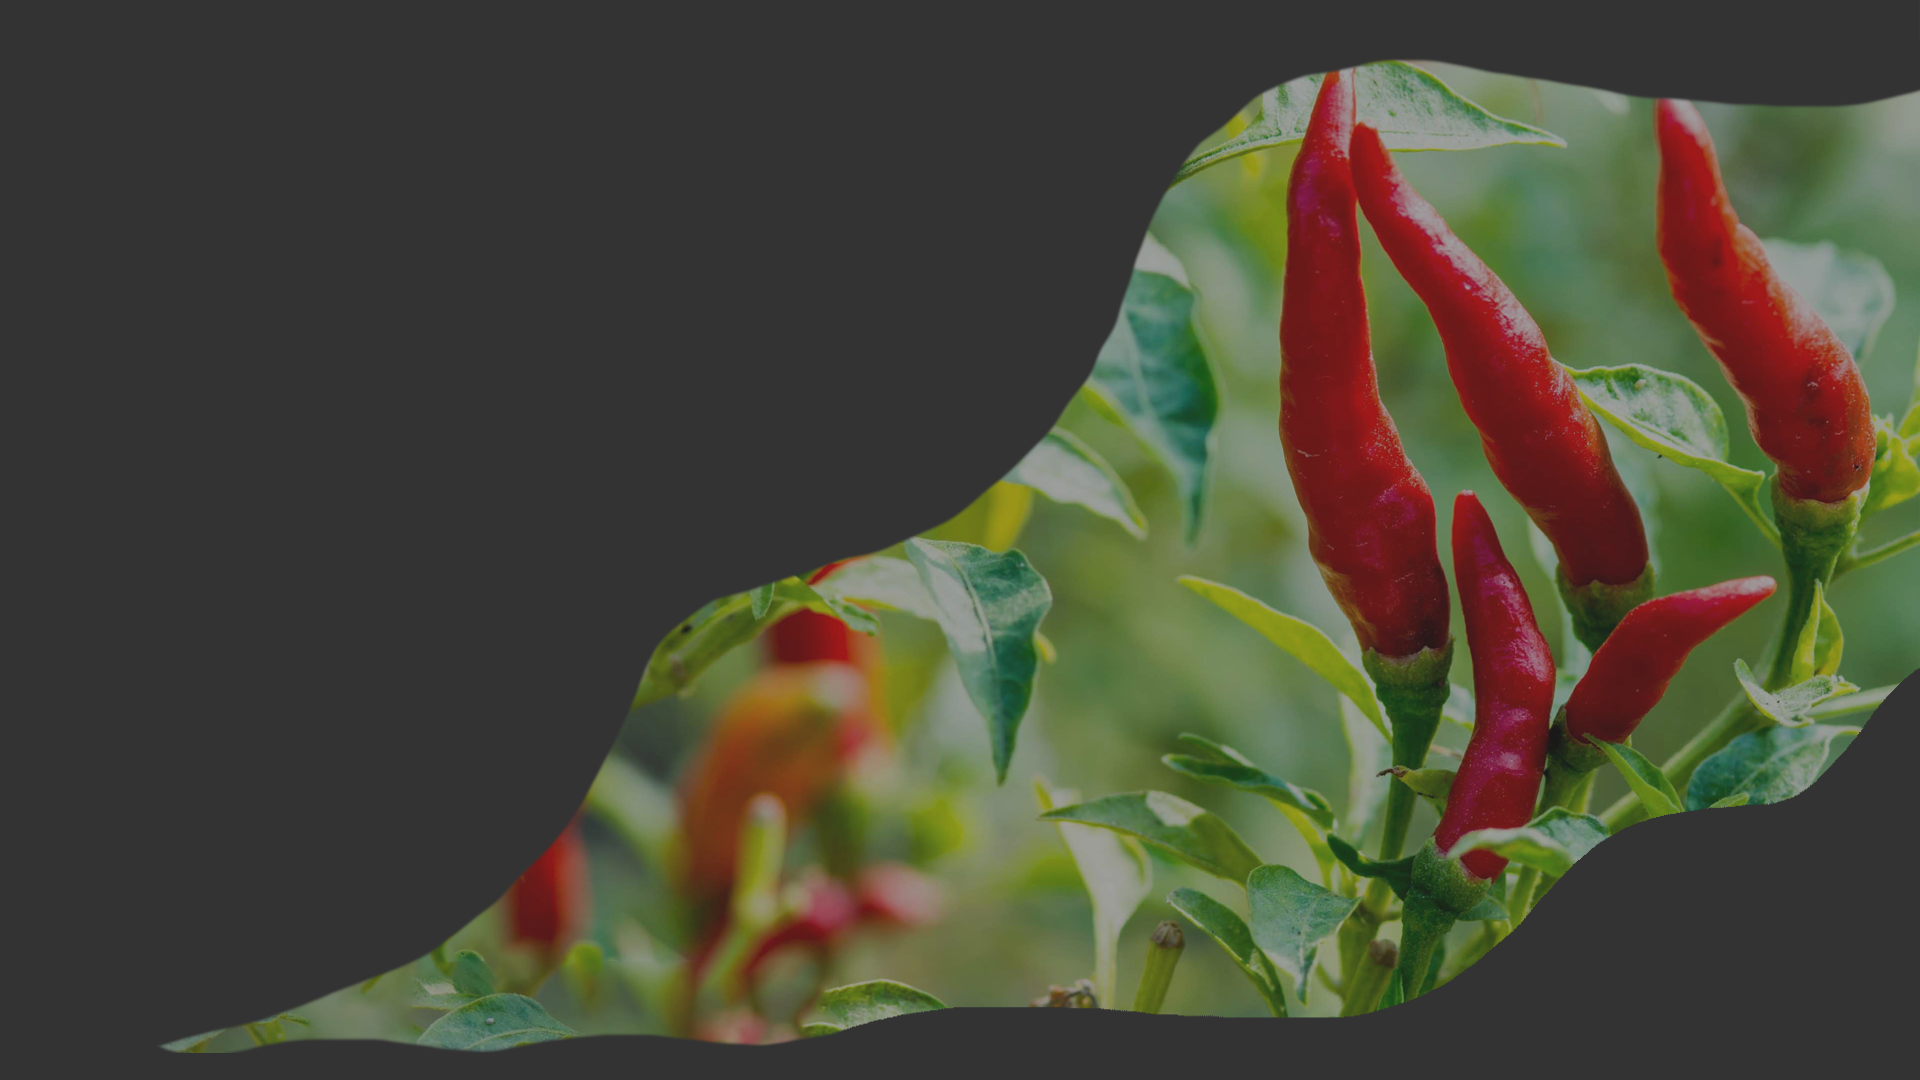
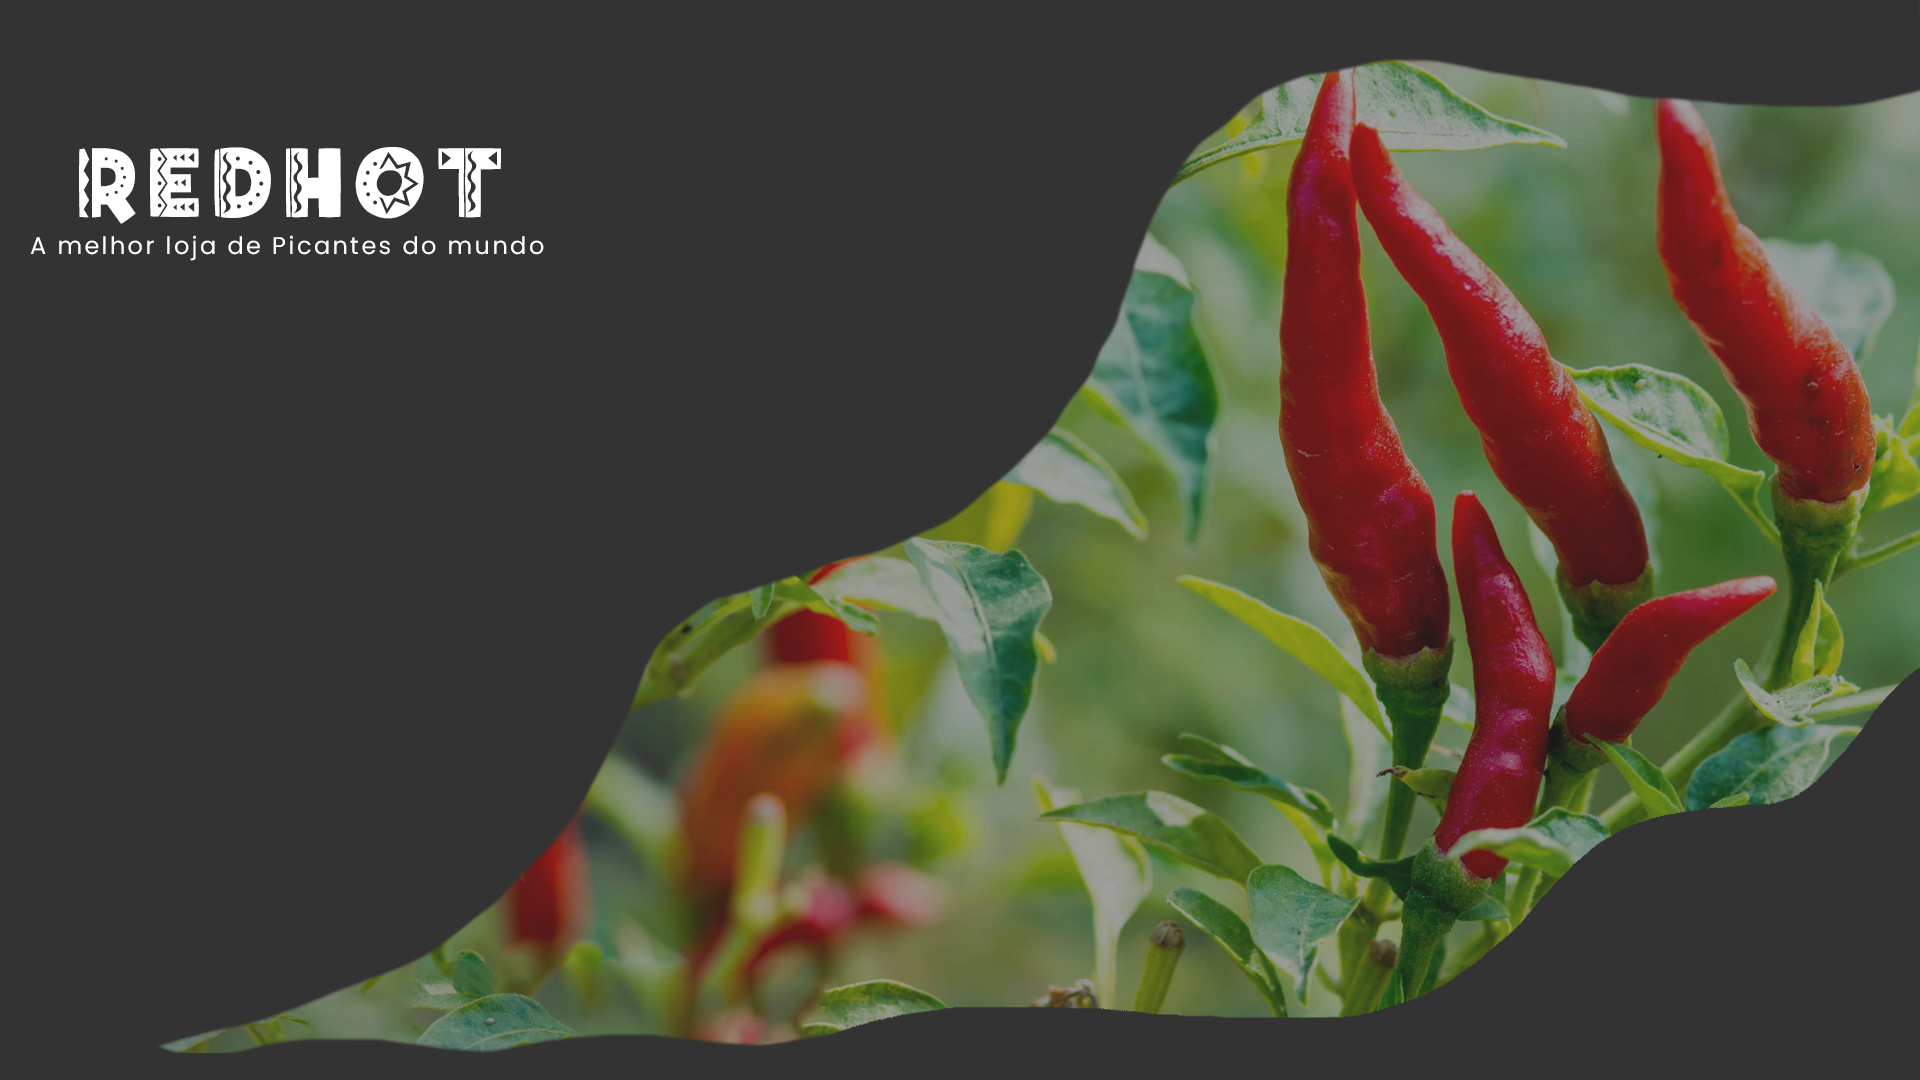
TCW add a new landing page to the webstore

Changed region(s): [[0.0312, 0.1222, 0.2812, 0.2444]]

diff --git a/webapp/public/css/home.css b/webapp/public/css/home.css
@@ -1,3 +1,131 @@
 .home{
-    padding: 0;
+    position: relative;
 }
+.home .buttonOnHome{
+    position: absolute;
+    top: 300px;
+    left: 179px;
+    width: 200px;
+    height: 50px;
+}
+
+.home .buttonOnHome a{
+    text-decoration: none;
+    color: var(--white);
+    font-size: 20px;
+    font-weight: bold;
+    display: flex;
+    justify-content: center;
+    align-items: center;
+    width: 100%;
+    height: 100%;
+    background-color: var(--main-color);
+    border-radius: 10px;
+}
+
+.home .buttonOnHome a:hover{
+    background-color: var(--hover-admin-option);
+    transition: 0.2s;
+}
+
+.mainDestaques{
+    position: relative;
+}
+
+.mainDestaques .backgroundMain{
+    z-index: 1;
+}
+
+.mainDestaques .top4SellingProducts{
+    z-index: 2;
+    position: absolute;
+    top: 0;
+    left: 0;
+    width: 100%;
+    height: 100%;
+}
+
+.mainDestaques .top4SellingProducts .top4SellingProductsTitle{
+    width: 100%;
+    display: flex;
+    justify-content: center;
+    align-items: center;
+    color: var(--black);
+    font-size: 4rem;
+    font-weight: bold;
+    margin-top: 10rem;
+    padding-top: 2rem;
+    margin-bottom: 10rem;
+    
+}
+
+.mainDestaques .top4SellingProducts .top4SellingProductsList{
+    width: 100%;
+    display: flex;
+    justify-content: center;
+    align-items: center;
+    flex-wrap: wrap;
+    padding-top: 3rem;
+}
+
+.mainDestaques .top4SellingProducts .top4SellingProductsList a{
+    text-decoration: none;
+    color: var(--black);
+}
+
+.mainDestaques .top4SellingProducts .top4SellingProductsList .top4SellingProductsItem{
+    width: 300px;
+    height: 300px;
+    margin: 1rem;
+    display: flex;
+    justify-content: center;
+    align-items: center;
+    flex-direction: column;
+    background-color: var(--white);
+    border-radius: 10px;
+    box-shadow: 0px 0px 10px var(--black);
+}
+
+.mainDestaques .top4SellingProducts .top4SellingProductsList .top4SellingProductsItem .top4SellingProductsItemImg{
+    width: 100%;
+    height: 200px;
+    display: flex;
+    justify-content: center;
+    align-items: center;
+}
+
+.mainDestaques .top4SellingProducts .top4SellingProductsList .top4SellingProductsItem .top4SellingProductsItemImg img{
+    padding-top: 1rem;
+    height: 100%;
+    border-radius: 10px;
+}
+
+.mainDestaques .top4SellingProducts .top4SellingProductsList .top4SellingProductsItem .top4SellingProductsItemInfo{
+    width: 100%;
+    height: 100px;
+    display: flex;
+    justify-content: center;
+    align-items: center;
+    flex-direction: column;
+}
+
+.mainDestaques .top4SellingProducts .top4SellingProductsList .top4SellingProductsItem .top4SellingProductsItemInfo h3{
+    width: 100%;
+    height: 50px;
+    display: flex;
+    justify-content: center;
+    align-items: center;
+    font-size: 2.5rem;
+    font-weight: bold;
+}
+
+.mainDestaques .top4SellingProducts .top4SellingProductsList .top4SellingProductsItem .top4SellingProductsItemInfo p{
+    width: 100%;
+    height: 50px;
+    display: flex;
+    justify-content: center;
+    align-items: center;
+    font-size: 1.5rem;
+    font-weight: bold;
+}
+

diff --git a/webapp/resources/views/welcome.blade.php b/webapp/resources/views/welcome.blade.php
@@ -1,8 +1,70 @@
 @section('content')
 <div class='home'>
-    <img src="{{ asset('sources/main/teste-main.png') }}" alt="Termos de Uso" class="termosDeUso">
+    <img src="{{ asset('sources/main/teste-main-3.png') }}" alt="Termos de Uso" class="background">
+    <div class='buttonOnHome'>
+        <a href="{{ url('/products') }}"> Sobre Nós</a>
+    </div>
 </div>
-
+<div class='mainDestaques'>
+    <div class="backgroundMain">
+    <img src="{{ asset('sources/main/teste-main-5.png') }}" alt="Destaques" class="backgroundDestaques">
+    </div>
+    <div class='top4SellingProducts'>
+        <div class='top4SellingProductsTitle'>
+            <h2>Produtos Mais Vendidos</h2>
+        </div>
+        <div class='top4SellingProductsList'>
+            <a href="{{ url('/products/1') }}">
+                <div class='top4SellingProductsItem'>
+                    <div class='top4SellingProductsItemImg'>
+                        <img src="{{ asset('sources/main/sacana_extra_picante_75ml.png') }}" alt="Produto 1">
+                    </div>
+                    <div class='top4SellingProductsItemInfo'>
+                        <h3>Produto 1</h3>
+                        <p>Avaliação: 5</p>
+                        <p>Preço: 10€</p>
+                    </div>
+                </div>
+            </a>
+            <a href="{{ url('/products/2') }}">
+                <div class='top4SellingProductsItem'>
+                    <div class='top4SellingProductsItemImg'>
+                        <img src="{{ asset('sources/main/sacana_extra_picante_75ml.png') }}" alt="Produto 2">
+                    </div>
+                    <div class='top4SellingProductsItemInfo'>
+                        <h3>Produto 2</h3>
+                        <p>Avaliação: 4.9</p>
+                        <p>Preço: 10€</p>
+                    </div>
+                </div>
+            </a>
+            <a href="{{ url('/products/3') }}">
+                <div class='top4SellingProductsItem'>
+                    <div class='top4SellingProductsItemImg'>
+                        <img src="{{ asset('sources/main/sacana_extra_picante_75ml.png') }}" alt="Produto 3">
+                    </div>
+                    <div class='top4SellingProductsItemInfo'>
+                        <h3>Produto 3</h3>
+                        <p>Avaliação: 4.8</p>
+                        <p>Preço: 10€</p>
+                    </div>
+                </div>
+            </a>
+            <a href="{{ url('/products/4') }}">
+                <div class='top4SellingProductsItem'>
+                    <div class='top4SellingProductsItemImg'>
+                        <img src="{{ asset('sources/main/sacana_extra_picante_75ml.png') }}" alt="Produto 4">
+                    </div>
+                    <div class='top4SellingProductsItemInfo'>
+                        <h3>Produto 4</h3>
+                        <p>Avaliação: 4.5</p>
+                        <p>Preço: 10€</p>
+                    </div>
+                </div>
+            </a>
+        </div>
+    </div>
+</div>
 @endsection
 
 
